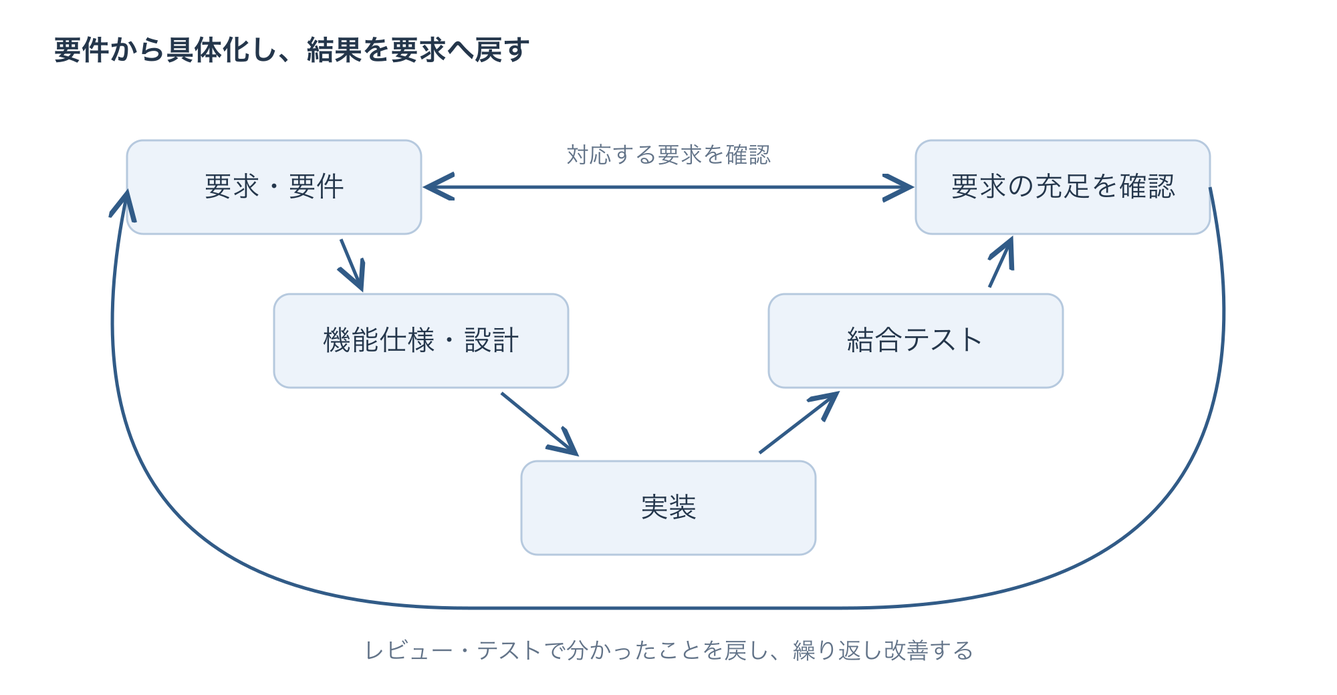
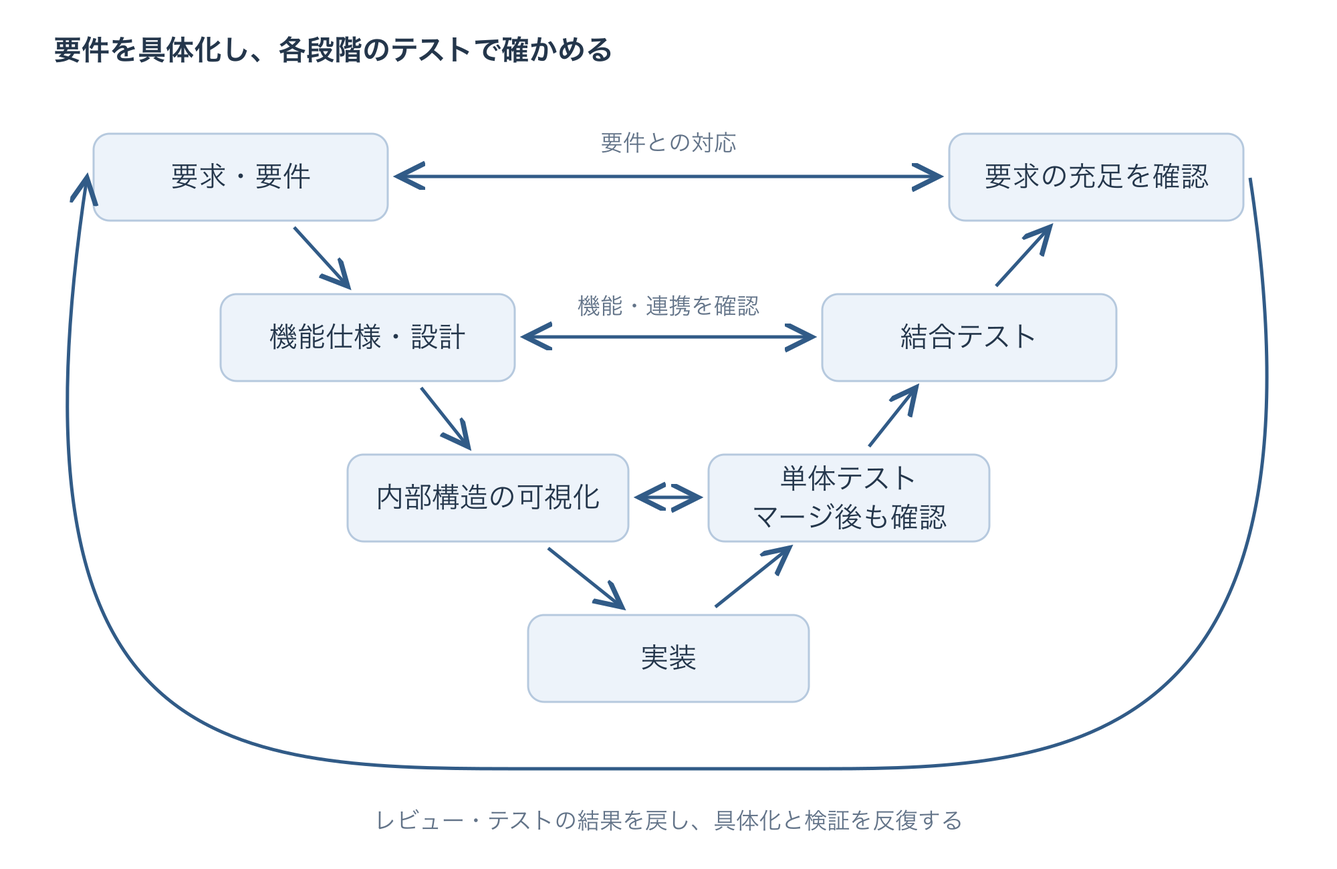
docs: refine iterative development article and V-model diagram

diff --git a/public/301-AI-test-framework-overview.md b/public/301-AI-test-framework-overview.md
@@ -1,5 +1,5 @@
 ---
-title: AI ✖ 結合テスト自動化フレームワークによる具体と抽象の往復開発
+title: AIと結合テスト自動化で進める、具体と抽象の反復開発
 tags:
   - 生成AI
   - IoT
@@ -16,189 +16,108 @@ ignorePublish: true
 
 ## はじめに
 
-こんにちは。Sato Toshiaki（@Shizen Connect）です。
+こんにちは。Shizen ConnectのSato Toshiakiです。
 
-組み込み開発で機能を作り込むには、実装に加えて、機器やサービスを組み合わせた動作の確認が重要です。
-機能追加や内部改修のたびに、要件を満たしているか、既存の機能に影響がないかを確かめながら開発を進める必要があります。
+組み込み開発では、機能追加や内部改修のたびに、実機で要件を満たすか、既存機能に影響がないかを確認します。この確認を繰り返せるよう、私は結合テスト自動化フレームワークを構築し、運用しています。
 
-この確認を繰り返せる仕組みにするため、私はテスト手順の進行や結果の収集を担う結合テスト自動化フレームワークを設計・実装し、運用しています。テストの作成や結果の整理にはAIを活用し、開発を効率よく進めることを目指しています。
+要件・仕様・設計・実装・テストを対応付け、AIによるテスト作成や結果整理も活用しながら、複雑な機能を作り込んでいます。本記事では、その進め方と、テストを開発の道具として使う工夫を紹介します。
 
-実際の開発では、要件定義リストを起点に、機能仕様、設計、実装、テストをトレーサビリティマトリクスで対応付け、このフレームワークで動作を確認しながら、少し複雑な機能も作り込むことができています。
+## 具体化と検証を反復し、要件を形にする
 
-本記事では、要件からテストまでをつなぎ、テストを使って機能を作り込む開発の進め方を紹介します。テスト環境への接続・認証方式など、実環境の構成の詳細は扱いません。
+![要件の具体化とテストによる検証を反復する開発](images/301-abstract-concrete.png)
 
-主回線が途絶しても、副回線で計測データを欠損・重複なく届ける機能を共通の説明例として使います。実際の運用実績を示すものではなく、要件から設計・実装・テストまでのつながりを説明するための例です。
+ここでは、抽象の側を、解決したいビジネス課題や要求、それを整理した要件として捉えます。それを仕様・設計・実装へ具体化し、テストで確かめます。矛盾や不足が分かれば要求や仕様へ戻る。この具体化と検証を、人のレビューを挟みながら反復しています。
 
-## AIを用いた開発は、抽象と具体の往復
+要件の具体化では、次の二つを分けて考えます。
 
-![要件から実装・テストへ進み、結果を要求へ戻す開発の往復](images/301-abstract-concrete.png)
-
-AIを用いた開発でも、まず「何を解決したいか」を、設計や検証ができる形へ落とし込む必要があります。この過程を、抽象から具体へ進む道のりとして考えています。
-
-ここでは、抽象の側を、ステークホルダーの解決したいビジネス課題や要求、それを整理した要件として捉えます。そこから機能仕様、設計、実装へと具体化し、テストで要求を満たすか確かめます。
-
-ただし、一方向に進むだけではありません。設計やテストで分かった矛盾や不足を、要求や仕様へ戻して見直します。この往復の要所に人のレビューを入れ、AIと開発を進めています。
-
-## 要件定義からアーキテクチャ基本設計と機能仕様へ落とし込む
+- **アーキテクチャ基本設計**：全体の構成と役割分担
+- **機能仕様**：各機能の入力・状態に対する振る舞い
 
 ![要件を構成と振る舞いの二つの観点から具体化する](images/301-requirements-design.png)
 
-要件定義では、何を実現し、どの条件を満たす必要があるかを整理します。ただし、要件だけでは、システムをどう構成し、各機能をどう動かすかまでは決まりません。そこで、要件をアーキテクチャ基本設計と機能仕様の二つの観点から具体化します。
+例えば、計測データを送る機器に「主回線が途絶しても、副回線でデータを欠損・重複なく届けたい」という要求があるとします。この要求を、次のように具体化していきます。
 
-アーキテクチャ基本設計では、システム全体の構成、各要素の責務、要素間のつながりを考えます。機能仕様では、入力や状態に対して、各機能がどう振る舞うかを定めます。全体の役割分担と個々の振る舞いを分けて考え、相互に照らし合わせながら整えていきます。
+※以下は説明のための仮想例です。
 
-例えば、機能仕様で必要になった処理を担う場所がなければ、構成や責務を見直します。逆に、構成上の制約によって期待する振る舞いを実現できなければ、仕様や要件へ戻ります。このため、二つを独立に確定するのではなく、行き来しながら具体化します。
+| 観点 | 決めることの例 |
+|---|---|
+| 要件定義 | 対象とする通信断、許容する切り替え時間、欠損・重複の判定条件 |
+| アーキテクチャ基本設計 | エッジ側で切り替えと保存・再送、クラウド側で重複排除を担う |
+| 機能仕様 | 主回線の途絶を判定して副回線へ切り替え、未送信データを再送する。同じ識別子のデータは重複登録しない |
 
-ここで、「主回線が途絶しても、冗長化した副回線で計測データを欠損・重複なく届けたい」という要求を例に考えます。工程名や成果物の分け方は開発現場によって異なりますが、本記事では次のように整理します。
+この例では、副回線が利用できることを前提にします。切り替え時間や保存容量の制約で成立しなければ、要件や仕様へ戻って調整します。
 
-| 観点 | 決めること | 例 |
-|---|---|---|
-| 要件定義 | 満たすべき条件と対象範囲 | 対象とする通信断の条件、許容する切り替え時間、対象データ量、欠損・重複の判定条件を決める |
-| アーキテクチャ基本設計 | システムの構成と役割分担 | エッジ側で回線切り替えと未送信データの保存・再送、クラウド側で識別子による重複排除を担う |
-| 機能仕様 | 各機能の振る舞い | 主回線の途絶判定と副回線への切り替え条件を定め、未送信データを再送する。同じ識別子のデータは重複登録しない |
+AIには案出しを支援してもらいますが、私の経験では、誤った説明や矛盾が含まれ、修正案にも確認が必要なことがあります。重要な設計は、根拠や制約をチームでレビューしています。
 
-この例では、副回線が利用できることを前提にします。両回線が使えない場合の扱いは別途整理します。切り替え時間や保存容量の制約で要件を満たせないと分かれば、想定条件や仕様へ戻って調整します。構成と振る舞いが整ったところで実装し、テスト結果を要件や設計に照らして確認します。
+## トレーサビリティで、変更と進捗をたどる
 
-AIには仕様や設計の案出しを支援してもらい、人は要求との整合と、実機・運用の制約の中で成立するかをレビューします。
-
-私の開発経験では、AIの案に事実と異なる説明や矛盾が含まれることがあり、修正を依頼した後の案も確認が必要だと感じています。このため、特に重要なアーキテクチャ設計では、人が根拠や制約を照合し、仕様と設計の妥当性をチームでレビューしています。
-
-## トレーサビリティとテストで、往復を支える
-
-この開発では、Automotive SPICE（A-SPICE）の開発プロセスも意識し、要件・設計・実装・検証のつながりと、成果物間の整合を重視しています。
-
-成果物が増えると、「この設計はどの要件のためか」「仕様を変えたら何を確認し直すか」をたどる必要があります。
-その対応関係を保つのがトレーサビリティです。
-要件から機能仕様、設計、実装、テストまでの対応を表にまとめたものが、トレーサビリティマトリクスです。
-実際の開発では、要件からテストまでをトレーサビリティマトリクスで管理しています。説明例の対応関係を抜き出すと、次のようになります。
+要件から仕様・設計・実装・テストまでの対応をたどれることが、トレーサビリティです。その対応を表にまとめたトレーサビリティマトリクスを使っています。
 
 | 要件 | 仕様・設計 | 実装・PR | テスト |
 |---|---|---|---|
-| 副回線で欠損・重複なく届ける | 切り替え・保存・再送・重複排除の振る舞いと役割分担 | 各処理の実装と変更差分 | 切り替え時間と、送受信データの識別子・件数を確認 |
+| 副回線で欠損・重複なく届ける | 切り替え・保存・再送・重複排除の振る舞いと役割分担 | 各処理の実装と変更差分 | 切り替え時間と、各端末の状態と送受信データを確認 |
 
-管理項目の細かさより、要件から実装・テストをたどれ、変更時に確認する範囲が分かることを重視しています。
+人手で対応を洗い出し、変更のたびに更新するのは負担です。こうした対応付けや変更箇所の整理こそ、AIの支援を生かしやすい作業だと考えています。AIが作った案の根拠を人が確認し、更新に使います。
 
-成果物の状態や予定日も合わせて管理すれば、要件ごとの進捗を共有する材料にもなります。ここでは、変更の影響と確認範囲をたどる使い方を中心に紹介します。
+成果物の状態や予定日も整理すれば、要件ごとの進捗や残作業を把握できます。変更時に何を確認し直すか、人が開発進捗をどう判断するか、その両方に役立ちます。
 
-この対応関係は、内部構造を見直す際にも役立ちます。設計や実装のレビューで構造を分析した結果、責務分担や処理のつなぎ方を改修すべきだと分かることがあります。機能が動いていても、保守性のために内部構造を見直す必要があるケースです。
+## 要件を確認するテストを先に作り、TDDで改修を支える
 
-対応関係が整理されていれば、改修がどの要件に関係し、どの仕様・実装・テストに影響するかをたどることができます。そして、改修後も必要な機能が保たれているかを、テストで確かめます。
+実装の前に、「何を確認できれば要件を満たしたと言えるか」をテストにします。
 
-## 要件を確認するテストを先に作り、TDDでリファクタリングする
+回線切り替えの例なら、主回線を切断し、仕様で定めた時間内に副回線へ切り替わることを確認します。さらに各端末の状態と送受信データを記録し、識別子・件数を照合して欠損・重複を確かめます。期待結果は、実測値ではなく要件や仕様を根拠に決めます。
 
-要件を実装へ落とし込む前に、何を確認できればその要件を満たしたと言えるかを考えます。入力や事前条件、期待結果、観測方法をテストとして整理すると、実装で目指す振る舞いが明確になります。
+先にテストを書き、失敗を確認し、それを満たす実装を進める。通ったら、振る舞いを保ったまま内部構造を整える。この繰り返しが、テスト駆動開発（TDD）です。結合テストに加え、個々の処理を確認するテストも使います。
 
-この例なら、副回線が利用できる状態で主回線を切断し、仕様で定めた時間内に切り替わることを確認します。さらに、送信対象と受信データの識別子・件数を照合し、切り替え前後のデータに欠損・重複がないことを確かめます。期待結果は要件や仕様を根拠に人がレビューし、実装後の動作に合わせて決めないようにします。
+特に、AIによるブランチ間のマージでは、単体テストが有効だと感じています。構文上はマージできても、必要な処理が失われたり、別の変更で振る舞いが変わったりすることがあります。マージ後に単体テストを実行すれば、テストで確認している範囲の誤りを検出し、そのまま取り込むのを防ぐ手がかりになります。
 
-期待する振る舞いを先にテストで表し、そのテストが失敗することを確認してから、満たすための実装を進めます。テストが通ったら、その状態を保ちながら内部構造を整えます。このサイクルを繰り返す進め方が、テスト駆動開発（Test-Driven Development：TDD）です。要件を確認する結合テストに加え、個々の処理を確認するテストも使いながら進めます。
+既存の実装をリファクタリングする際も、必要なテストを先に整えます。再送処理を別のモジュールへ移しても、データが欠損・重複なく届くという期待結果は変わりません。トレーサビリティで確認範囲をたどり、テストで改修結果を確かめます。
 
-外部から見た振る舞いを変えずに内部構造を改善する作業を、リファクタリングと呼びます。既存の実装を改修する場合も、必要な振る舞いを確認するテストを先に整え、改修後に同じ期待結果を満たすか確かめます。
-
-例えば、回線切り替えや再送処理を別のモジュールへ移しても、副回線でデータが欠損・重複なく届くという期待結果は変わりません。トレーサビリティで確認範囲をたどり、テストで振る舞いを確かめることで、内部構造の見直しを進めやすくなります。
-
-## バイブコーディングにハーネスを設ける
+### TDDとレビューをハーネスにする
 
 ![TDDとレビューをハーネスとし、トレーサビリティで確認範囲をたどる](images/301-harness.png)
 
-AIとの対話で実装を進めるバイブコーディングでは、TDDと人のレビューをハーネスとして組み込んでいます。ここでいうハーネスは、開発の方向と結果を確かめながら進めるための仕組みです。
+AIとの対話で実装を進めるバイブコーディングでは、TDDと人のレビューをハーネスとして使っています。テストで振る舞いを確かめ、レビューで「そのテストが要件を確認できているか」を判断する仕組みです。
 
-TDDでは、期待する振る舞いをテストで表し、実装や改修後もそれを満たすか確認します。レビューでは、要求の解釈、仕様、設計、テストの期待結果が妥当かを人が判断します。テストが通ることと、そのテストで要求を確認できていることを、両方から確かめます。
+冗長化した回線の例では、主回線の途絶から副回線への切り替え、その後の状態遷移を、先にテストで定めます。実装・改修のたびに実行し、期待しない状態へ遷移したり、想定した状態から進まなくなったりする逸脱を早期に検出します。一方、人のレビューでは、遷移条件や期待する状態そのものが要件に沿っているかを確認します。テストとレビューの両方で、実装と期待結果のずれを小さいうちに見つけ、修正につなげます。
 
-トレーサビリティは、この確認を支える対応関係です。変更時に見直すべき仕様・実装・テストをたどり、レビューと再テストへつなげます。
+こうしてAIを使う処理に人の判断を組み込む考え方を、Human-in-the-Loop（HITL）と呼びます。
 
-ここからは、この回線切り替えのテストを、フレームワークでどう進めるかを説明します。
+## フレームワークで、確認を繰り返せる形にする
 
-## 仕様から結果までをつなぐ
+私が作ったフレームワークでは、テスト手順の進行と結果の収集・記録を担います。AIはケースや手順の案、結果の整理を支援し、人は妥当性を判断します。
 
-開発では、テスト実行の自動化に加えて、その前後の作業にもAIを活用しています。仕様から確認項目や期待結果の案を作り、手順に落とし込み、結果を整理するまでを、人のレビューと組み合わせて進めます。
-
-例えば、副回線への切り替え条件や許容時間が変われば、途絶判定の条件、テスト手順、期待結果を見直します。スクリプトの待機時間だけを直しても、期待結果が古いままなら新しい仕様を確認できません。
-
-そこで、仕様、テストケース、実行した手順、結果の対応を残します。結果から根拠の仕様へ戻り、仕様変更時には見直すべきケースやスクリプトをたどります。
-
-AIは、各成果物の案と変更候補を作ります。人は、要求の解釈や対応関係、変更の影響範囲が妥当かをレビューします。
-
-## 作ったフレームワークを、開発の確認に使う
-
-私が設計・実装した結合テストフレームワークは、テスト手順を進め、結果を収集・記録する役割を担います。AIはケースや手順の案、結果の整理を支援し、人は要求との整合や結果の妥当性を判断します。
-
-| 担当 | 開発での役割 |
+| テストに残すもの | 回線切り替えの例 |
 |---|---|
-| 人 | 要求・目的とテスト観点の提示、仕様・設計・テストのレビュー、結果の評価 |
-| AI | ケース・手順の作成支援、変更候補の整理、結果の考察 |
-| 結合テストフレームワーク | テスト手順の進行、結果の収集・記録 |
+| 条件と手順 | 副回線が使える状態でデータを送信し、主回線を切断する |
+| 期待結果 | 規定時間内に切り替わり、対象データに欠損・重複がない |
+| 実行記録 | 機器の状態、設定、ソフトウェアの版、切り替え時間、送受信データ、ログ |
 
-回線切り替えの例では、次の内容を一つのテストケースとして整理します。
+結果はケースと仕様に対応付けます。切り替え条件や許容時間が変わったら、手順と期待結果も見直し、再レビューして実行します。
 
-| 項目 | 内容 |
-|---|---|
-| 事前条件 | 副回線が利用でき、計測データを送信している |
-| 確認手順 | 主回線の途絶を発生させ、副回線への切り替えとデータの到達を確認する |
-| 期待結果 | 仕様で定めた時間内に切り替わり、対象データに欠損・重複がない |
-| 記録するもの | 実行条件、ソフトウェアの版、切り替え時間、送受信データ、関連ログ |
+副回線への切り替えがうまくいかず重複（主副回線が同時にACTIVEになることをスプリットブレインといいます）となった場合も、再現条件を残して同じ手順を実行します。修正前に問題を検出できること、修正後に期待結果を満たすこと、関連する既存機能に影響がないことを確認します。そのケースは回帰テストに組み込み、後の変更でも繰り返し使います。
 
-このように手順と記録する内容をそろえ、フレームワークで繰り返し確認できる形にします。結果は元のケースや仕様と対応付け、機能を修正したときに、同じ期待結果を満たすか比較します。
-
-## 各工程でレビューする
-
-要求の読み違いを最後まで持ち越さないように、各工程で人がレビューします。
-
-この例で期待結果を「副回線でデータが届く」だけにすると、切り替え中の欠損や再送による重複を見落とす可能性があります。レビューでは、切り替え時間とデータ識別子・件数まで確認する設計になっているかを確かめます。
-
-| テスト工程 | 人が確認すること |
-|---|---|
-| 分析 | 要求の解釈と確認すべき観点 |
-| 設計 | 条件・期待結果と仕様の整合 |
-| 実装 | 手順・スクリプトとテスト設計の整合 |
-| 実行 | 事前条件と手順、記録内容の整合 |
-| 評価 | 記録された事実と結論の整合 |
-
-AIを使う処理に人のレビューや判断を組み込む考え方を、Human-in-the-Loop（HITL）と呼びます。本記事で紹介する開発では、仕様・設計・テストのレビューと結果の評価に、人の判断を組み込んでいます。
-
-レビューで修正が必要になったら、その根拠を記録し、関係する成果物も更新します。期待結果は要求や仕様に基づいて決め、実測値に合わせて変更しません。
-
-レビュー済みの回帰テストは、定めた事前条件と手順で繰り返します。ケースや期待結果、実行条件を変える場合は、関係する成果物を再レビューします。
-
-## 修正確認を回帰テストにつなげる
-
-同じ回線切り替えの例で、副回線への切り替え時に、再送したデータが重複登録される不具合が見つかったとします。
-
-まず、主回線を切断するタイミング、副回線の接続状態、送信データ、重複の判定方法をケースにします。機器の初期状態や設定をそろえ、修正前後それぞれのソフトウェアの版と結果を記録します。変更した部分と比較条件を明確にすることで、修正の効果を判断しやすくします。
-
-| 段階 | 確認すること |
-|---|---|
-| 修正前 | 再現条件で問題を検出できるか |
-| 修正後 | 同じ条件で期待結果を満たすか |
-| 周辺機能の確認 | 関連する既存テストに影響がないか |
-| 以後の変更時 | 再現ケースを繰り返し、再発を検出できるか |
-
-AIは再現条件の整理、関連ケースの見直し候補の提示、結果の比較を支援します。人は比較条件と結果を確認し、修正の妥当性を評価します。
-
-問題を再現するケースは回帰テストに組み込み、後の変更でも繰り返し使います。ただし、合格によって確認できるのは、実行した条件と観測範囲で期待結果を満たしたことです。
-
-## 回帰テストを修正確認や性能計測のツールとして使う
+## 回帰テストを、障害確認や性能計測の道具にする
 
 ![回帰テスト、障害確認、性能計測への活用](images/301-test-tool.png)
 
-このフレームワークで重視しているのは、蓄積した回帰テストを、開発中に繰り返し使えるツールにすることです。変更後に既存機能が保たれているかを確認するだけでなく、テストの実行・記録の仕組みを、障害の確認や非機能テストでの性能計測にも活用できます。
+推したいことは、蓄積したテストを、開発中に繰り返し使える道具にできることです。
 
-障害の確認では、主回線の切断と副回線への切り替えを再現し、動作やログを調べます。同じ手順を繰り返せるため、原因の調査や修正案の比較に使えます。
+- **回帰テスト**：変更後も既存の振る舞いが保たれるか確認する
+- **障害確認**：回線切り替えを再現し、ログを調べ、修正案を比較する
+- **性能計測**：切り替え所要時間や、未送信データの送信完了までの時間を比較する
 
-性能計測では、同じ回線切り替えを繰り返し実行し、切り替え所要時間や、未送信データの送信完了までの時間を記録します。負荷や実行環境をそろえて変更前後を比較すれば、機能上は問題がなくても性能が低下していないかを確認できます。
-
-こうして、テストを一度実行して終わる成果物にせず、必要なときに動作を確認し、計測し、比較する道具として使えることが、この仕組みのメリットです。
+機器の初期状態や負荷などの比較条件をそろえ、変更したソフトウェアの版と結果を記録します。このテストの合格で確認できるのは、実行した条件と観測範囲で期待結果を満たしたことです。
 
 ## まとめ
 
-具体と抽象の往復開発を支えるために、結合テスト自動化フレームワークを作って運用しています。要件・仕様・実装・テストの対応を保つ運用と組み合わせ、機能を作り込み、改修結果を繰り返し確認しています。
+要件を具体化し、テストで確かめ、結果を次の改修へ戻す。この反復を、トレーサビリティ、TDDとレビュー、結合テストフレームワークで支えています。テストを蓄積することで、障害確認や性能計測にも繰り返し使えます。
 
-トレーサビリティで変更の影響をたどり、TDDとレビューをハーネスとして開発を進めます。AIが作成や変更への追従を支援し、人が要求・期待結果・評価を判断します。フレームワークは手順の進行と結果の記録を担い、繰り返し確認できる形にします。
-
-蓄積した回帰テストと、その実行・記録の仕組みは、障害の確認や性能計測にも活用できます。開発中に繰り返し使えるツールとして整えることで、修正や内部改修の結果を確かめやすくしています。
-
-今後は、開発現場の要件や実機環境に合わせて、要求から実装・テストまでをつなぎ、継続的に改善できる仕組みづくりも支援していければと思います。
+今後は、開発現場の要件や実機環境に合わせて、こうした仕組みづくりの外部支援にも取り組んでいきたいと思います。
 
 最後まで読んでいただき、ありがとうございました。
+
+PS：本記事も、徒然なるままに書いた文章を自分で読み返し、「これは読みづらいな……」とAIに短く整理してもらい、また読み直す、という反復の結果です。笑
 
 ## 参考記事
 
